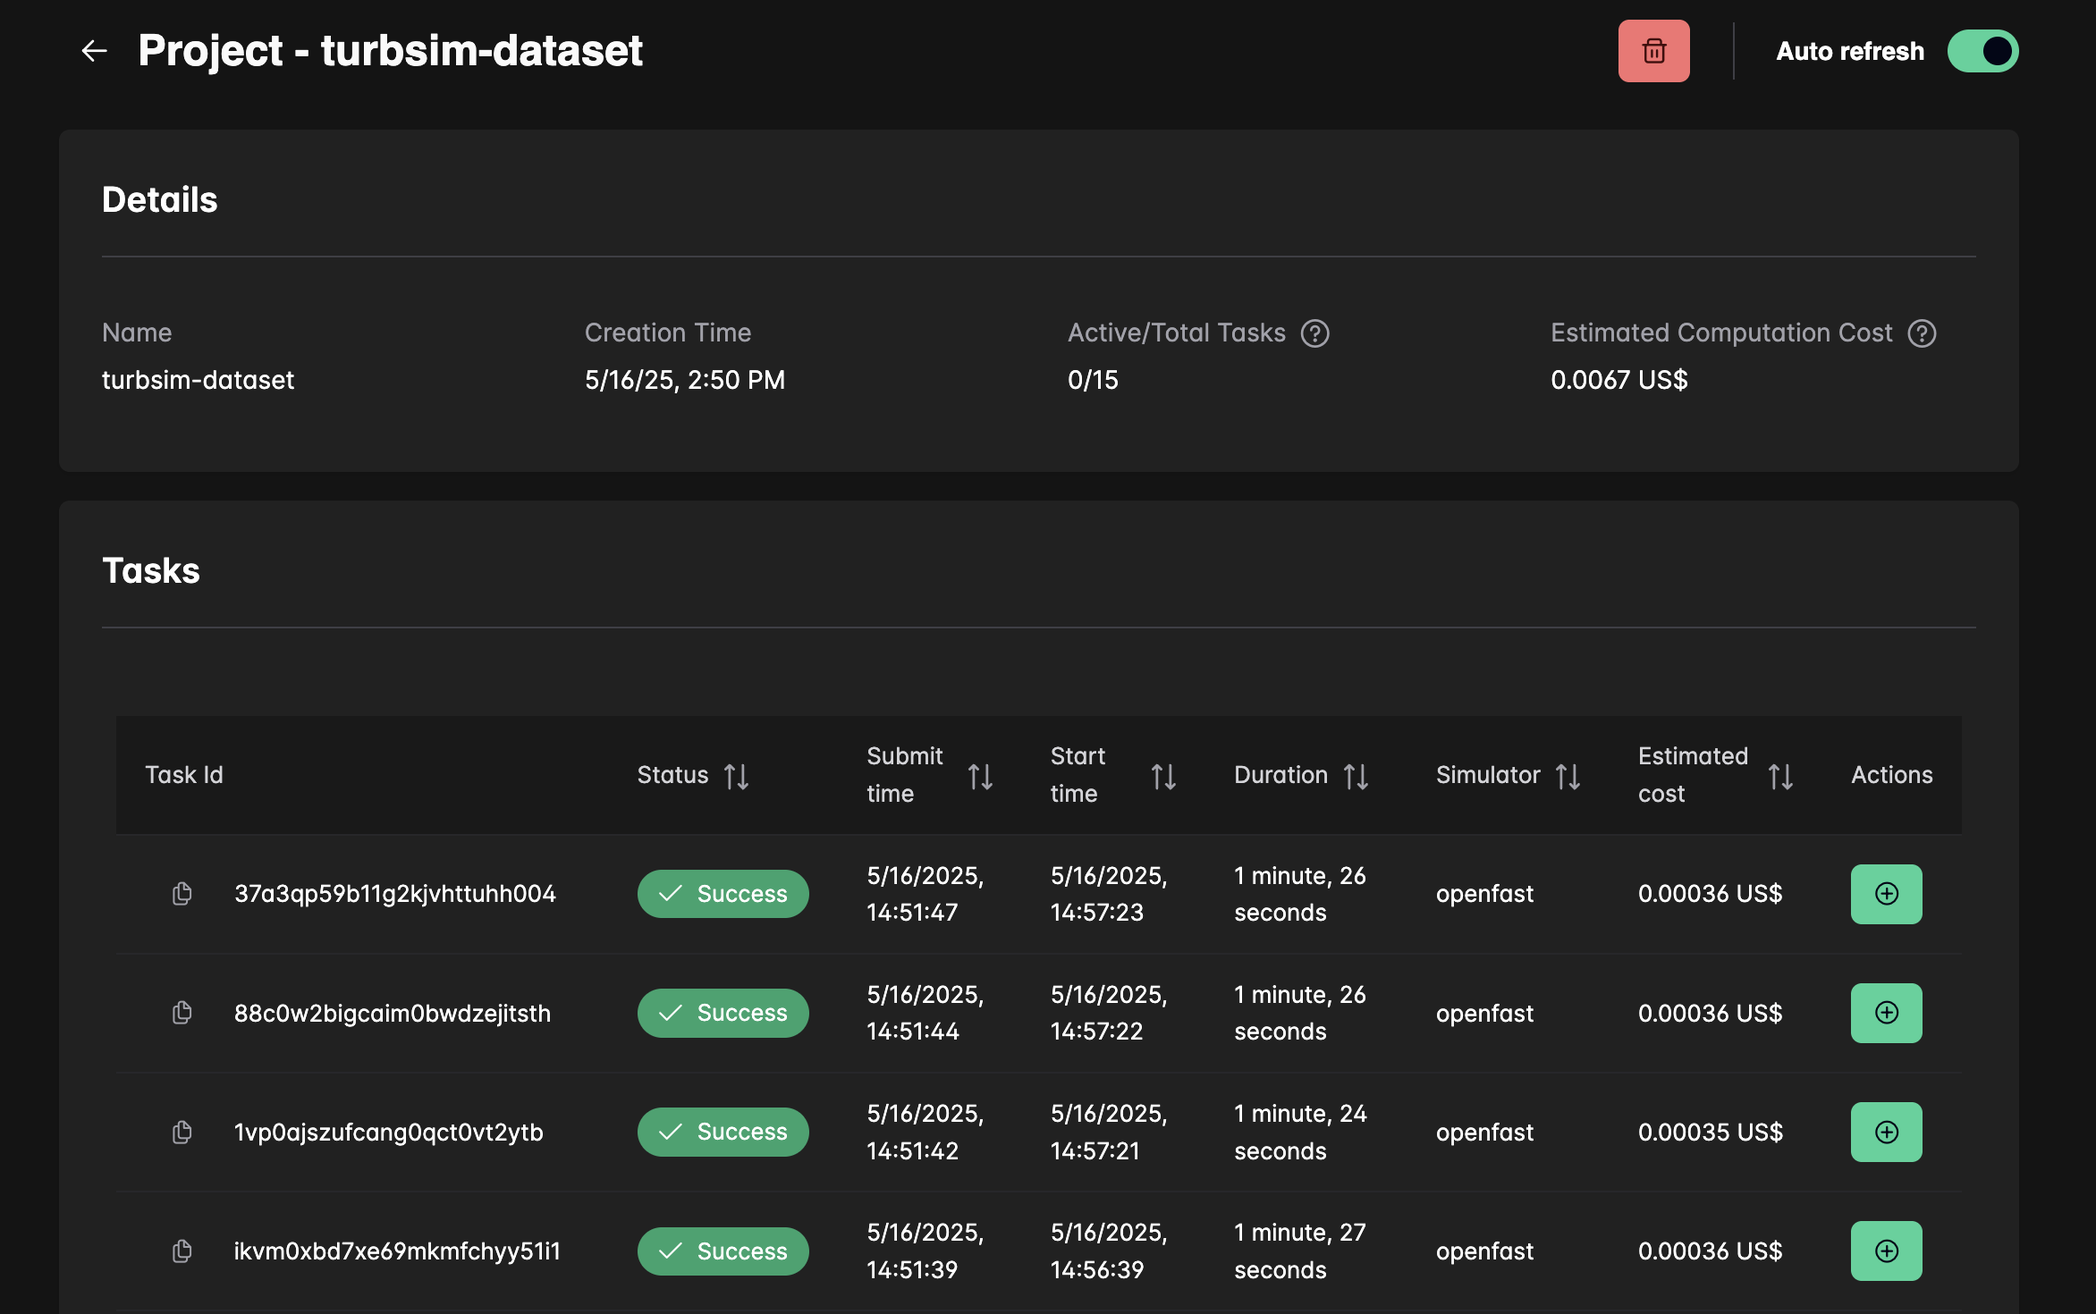
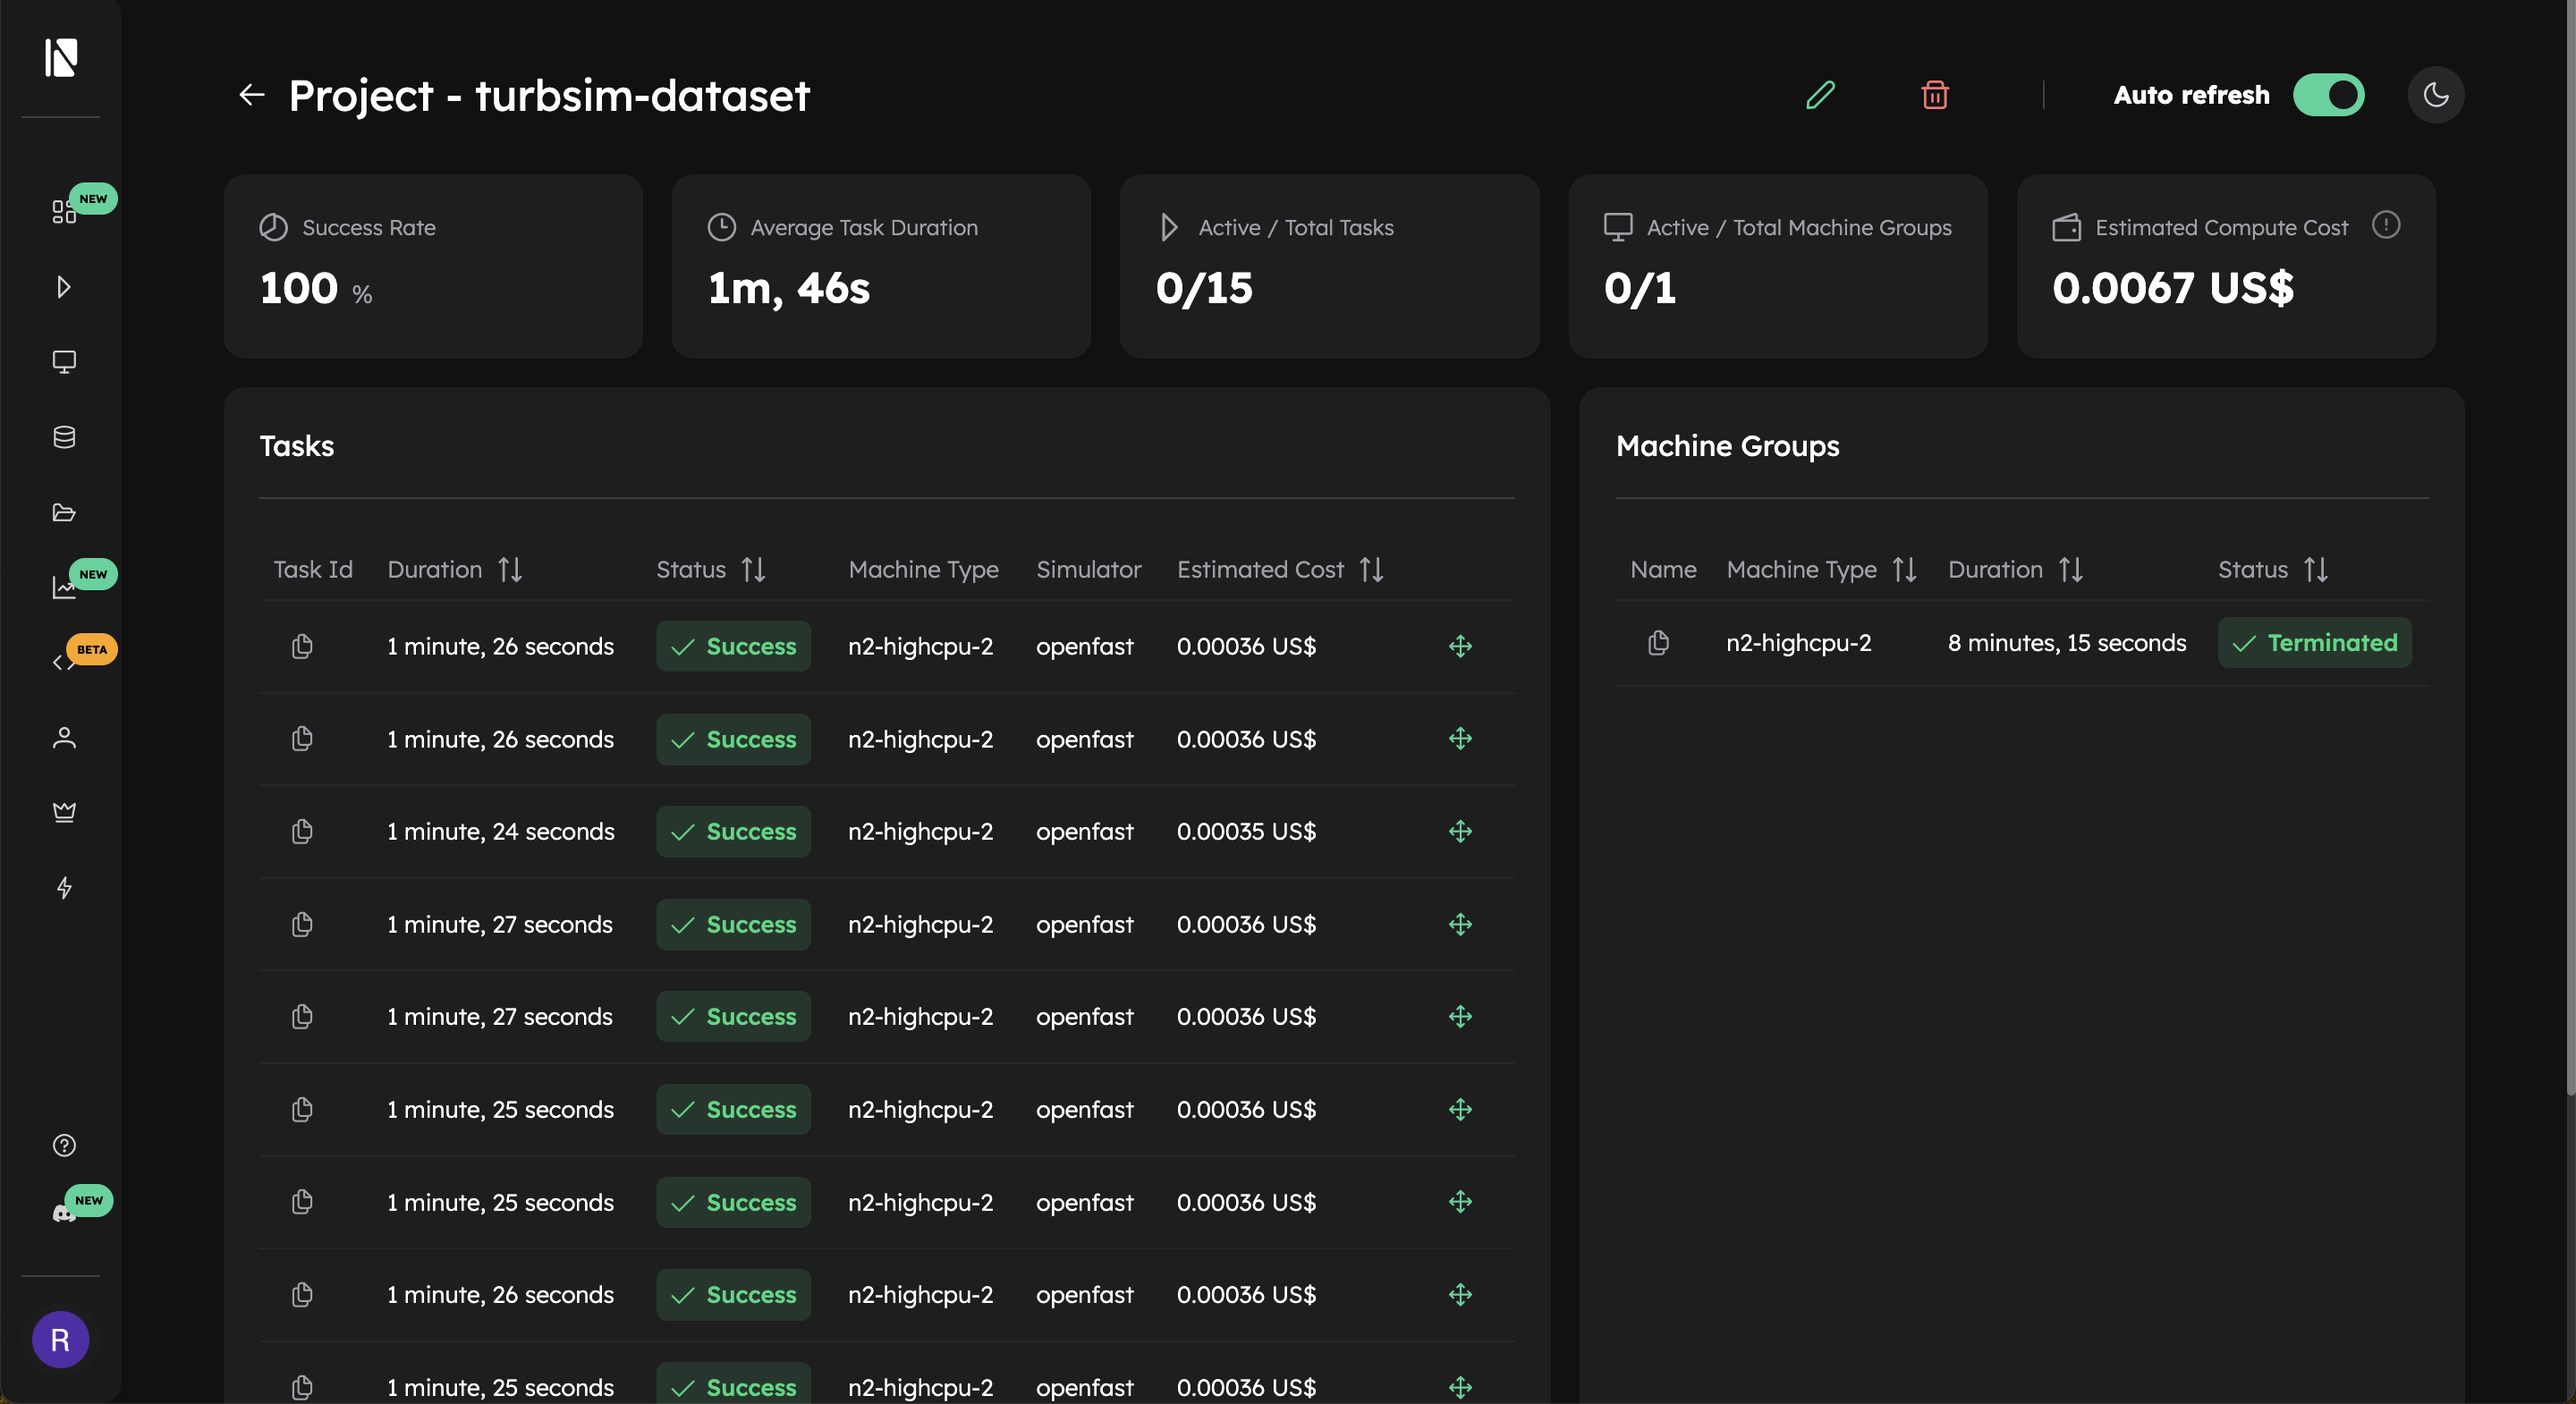
Improve turbsim tutorial

diff --git a/docs-sources/openfast/generate-turbsim-dataset/sections/section5.md b/docs-sources/openfast/generate-turbsim-dataset/sections/section5.md
@@ -35,6 +35,11 @@ Estimated total computation cost: 0.0067 US$
 
 Running `openfast_project.download_outputs()` creates a folder called `inductiva_output/turbsim_project` with one folder for each simulation.
 
+The project information is also available on the [Inductiva Web Console](https://console.inductiva.ai) on the projects tab:
+
+<p align="center"><img src="../../_static/console_projects.png" alt="TurbSim console projects" width="700"></p>
+
+
 ## Retrieve Task Metadata
 Retrieving the previously set metadata is easy with the Inductiva API.
 Below we show how you can retrieve the metadata of all the tasks in the project:
@@ -61,8 +66,12 @@ Task metadata: {'URef': '12', 'seed_1': '144736085', 'seed_2': '-2036154925', 'l
 Task ID: 1vp0ajszufcang0qct0vt2ytb
 Task metadata: {'URef': '13', 'seed_1': '-124466270', 'seed_2': '-864712422', 'local_template_dir': 'variations/s1_-124466270/s2_-864712422/URef_13'}
 
-..
+...
 ```
+
+You can also check the task metadata on the [Inductiva Web Console](https://console.inductiva.ai/):
+<p align="center"><img src="../../_static/console_metadata.png" alt="TurbSim console metadata" width="700"></p>
+
 
 ## Key Takeaways
 In summary, using cloud computing for generating datasets of large-scale simulations not only increases efficiency, but also significantly reduces computational time and cost. 
